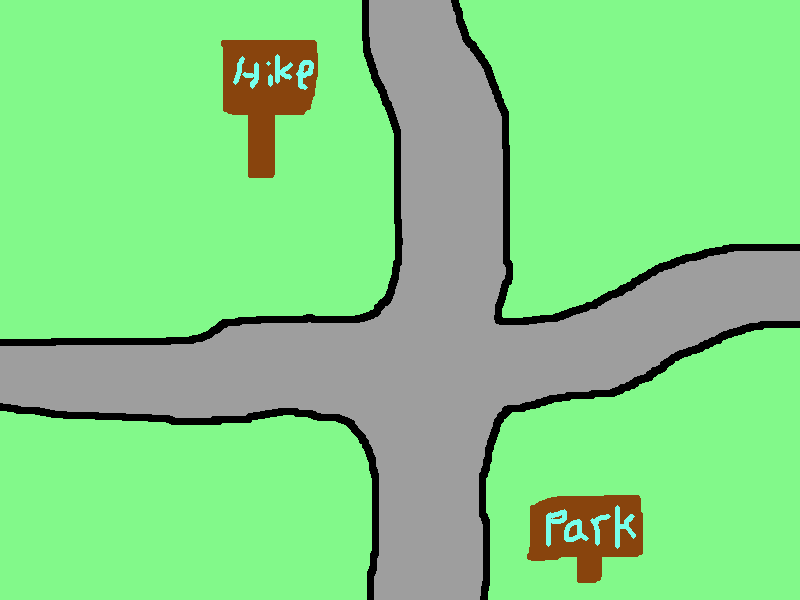
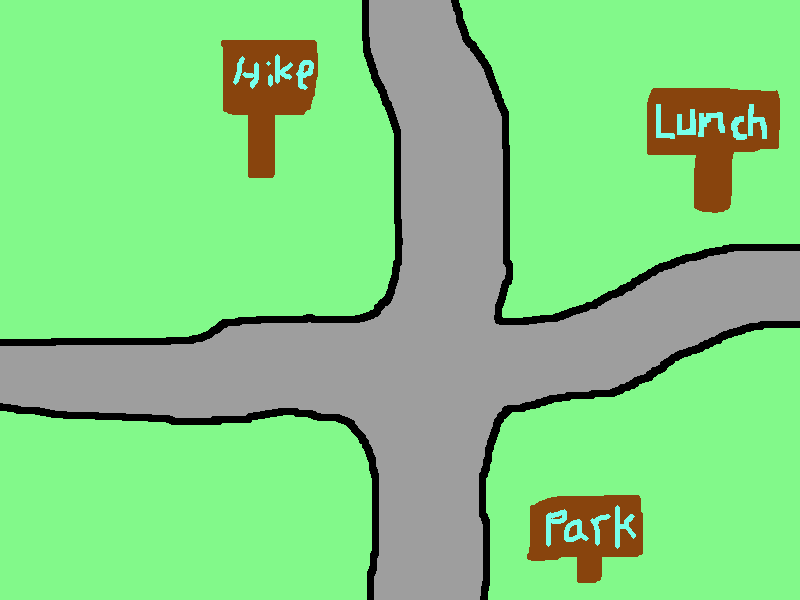
right park

Changed region(s): [[0.7812, 0.12, 1.0, 0.36]]

diff --git a/js/gameView.js b/js/gameView.js
@@ -110,7 +110,7 @@
         this.kay.bottomBound = 430;
         this.canvas.style.background = "url(./images/11_12.png)";
         break;
-      case "10,12":
+      case "10,12": // NOTE: Left park
         this.kay.resetBounds();
         this.kay.topBound = 0;
         this.kay.bottomBound = 430;
@@ -134,6 +134,31 @@
         this.kay.bottomBound = 430;
         this.kay.leftBound = 0;
         this.canvas.style.background = "url(./images/7_12.png)";
+        break;
+      case "12,12": // NOTE: Right park
+        this.kay.resetBounds();
+        this.kay.topBound = 0;
+        this.kay.bottomBound = 430;
+        this.canvas.style.background = "url(./images/12_12.png)";
+        break;
+      case "13,12":
+        this.kay.resetBounds();
+        this.kay.topBound = 180;
+        this.kay.bottomBound = 430;
+        this.canvas.style.background = "url(./images/13_12.png)";
+        break;
+      case "14,12":
+        this.kay.resetBounds();
+        this.kay.topBound = 0;
+        this.kay.bottomBound = 430;
+        this.canvas.style.background = "url(./images/14_12.png)";
+        break;
+      case "15,12":
+        this.kay.resetBounds();
+        this.kay.topBound = 80;
+        this.kay.bottomBound = 430;
+        this.kay.rightBound = 630;
+        this.canvas.style.background = "url(./images/15_12.png)";
         break;
       default:
 
